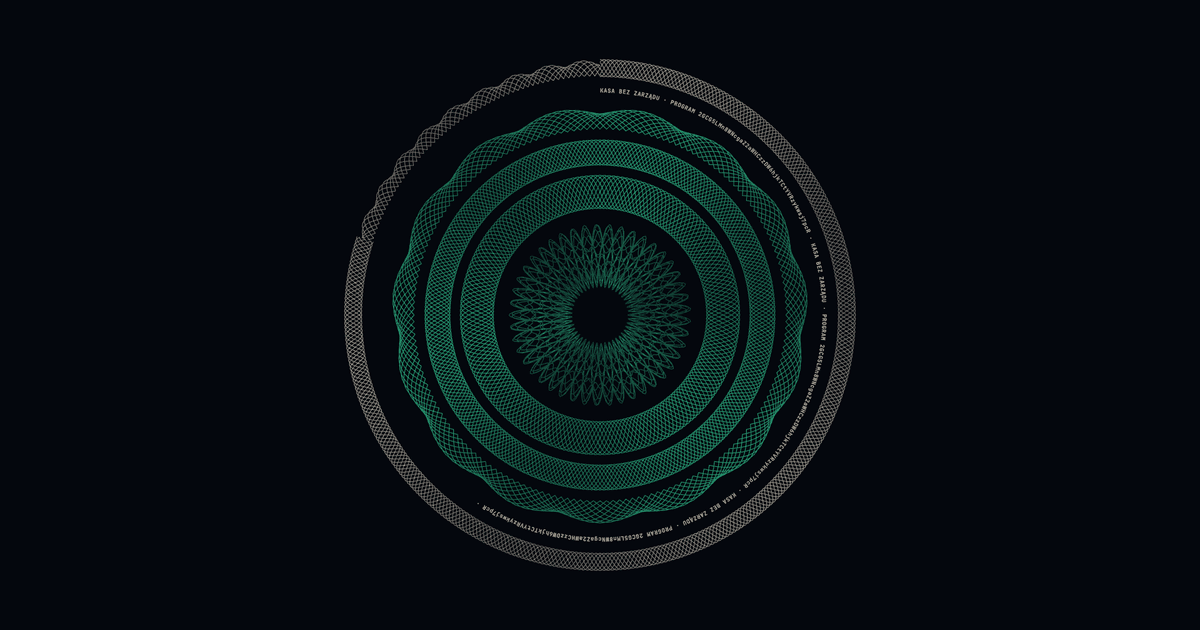
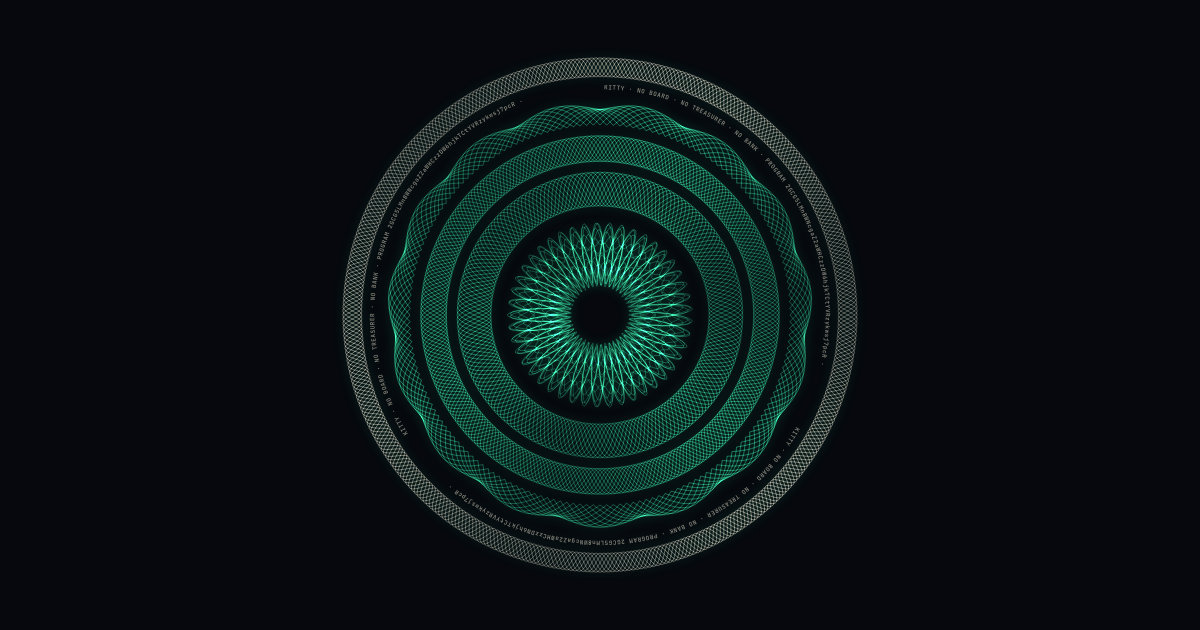
Rename to Kitty everywhere: README, submission, IDL, program docs, OG image
The OG image is re-rendered from the same Rosette component with the new
microprint fitted to the ring. README and the submission describe the
English UI.

Changed region(s): [[0.2775, 0.0905, 0.74, 0.9349]]

diff --git a/packages/contracts/programs/kasa/src/lib.rs b/packages/contracts/programs/kasa/src/lib.rs
@@ -14,7 +14,7 @@ pub use state::*;
 
 declare_id!("2GCG5LMn8WNcgaZ2aWHCzzDW6hjkTCtYVRzykwsj7pcR");
 
-/// Kasa bez zarządu: a workplace-style savings and loan fund (KZP) with no board
+/// Kitty: a workplace-style savings and loan fund (KZP) with no board
 /// and no treasurer. Members' money sits in a vault owned by this program, loans
 /// are paid out only when locked savings cover them in full, and overdue
 /// installments are collected from that collateral by anyone. There is no admin

diff --git a/README.md b/README.md
@@ -1,6 +1,6 @@
-<p align="center"><img src="docs/logo.png" alt="Kasa bez zarządu: rozeta giloszowa z adresem programu na obwodzie" width="220"></p>
+<p align="center"><img src="packages/web/src/app/opengraph-image.png" alt="Kitty: a guilloche rosette, with the program address engraved around its rim"></p>
 
-# Kasa bez zarządu
+# Kitty
 
 **Savings, 0% loans, direct debits and standing orders with no board, no treasurer and no bank.** Members of a group (a team at work, a school, friends, a family) save together and lend each other money at 0%, like a Polish *kasa zapomogowo-pożyczkowa* (KZP). The money sits in an account owned by a Solana program instead of a treasurer's bank account. Loans need no approval: they pay out once members' locked savings cover them 100%. **Installments leave the borrower's wallet by themselves on the due date** under a revocable SPL mandate, pulled by a bot that has no rights at all; if the wallet is empty or the mandate revoked, the installment is collected from collateral after grace. Nobody has to press anything, and nobody's consent is needed.
 
@@ -8,15 +8,12 @@ Built for the **Superteam Poland "Finance Without Intermediaries"** challenge at
 
 | | |
 |---|---|
-| Live app (Solana devnet, Polish UI) | https://web-production-ad49f.up.railway.app |
+| Live app (Solana devnet, English UI) | https://web-production-ad49f.up.railway.app |
 | Program (devnet) | [`2GCG5LMn8WNcgaZ2aWHCzzDW6hjkTCtYVRzykwsj7pcR`](https://explorer.solana.com/address/2GCG5LMn8WNcgaZ2aWHCzzDW6hjkTCtYVRzykwsj7pcR?cluster=devnet) (Anchor 1.1.2, IDL published on-chain) |
 | The bot ("automat"): fee payer, no rights | [`AuEGLSxJpfFqesbtQPDaBvTNqdsRUkZqPx3xiFjFqGqz`](https://explorer.solana.com/address/AuEGLSxJpfFqesbtQPDaBvTNqdsRUkZqPx3xiFjFqGqz?cluster=devnet), runs [`scripts/crank.ts`](packages/web/scripts/crank.ts) on Railway |
 | Test złoty (tPLN) mint | [`3m9ZBm3NqJSRbMdCbnsB5fZWKxpk6tFWeU6PGhzcM8HG`](https://explorer.solana.com/address/3m9ZBm3NqJSRbMdCbnsB5fZWKxpk6tFWeU6PGhzcM8HG?cluster=devnet) (SPL Token, 2 decimals = grosze) |
-| Recorded devnet run (every path, explorer links) | [docs/devnet-e2e.md](docs/devnet-e2e.md) |
-| Pitch deck | [docs/pitch.pdf](docs/pitch.pdf) |
+| Pitch deck (10 slides) | [pitch.pdf](pitch.pdf) |
 | Submission text | [SUBMISSION.md](SUBMISSION.md) |
-
-![Installment 1 is due: the bot pulls it from the borrower's wallet under his mandate](docs/screenshots/07-installment-pulled-by-bot.png)
 
 ## Who it is for
 
@@ -48,7 +45,7 @@ A KZP is mutual credit: members save every month and borrow from the common pot 
 
 Members have to trust them, and when that trust fails nobody can do anything about it: a PKZP treasurer from Jawor county embezzled 61,000 zł of colleagues' savings and lost it on a crypto exchange ([Puls Legnicy, 2024](https://pulslegnicy.pl/kryptowalutowa-afera-w-powiecie-jaworskim-skarbnik-ukradla-61-tys-zl-i-przegrala-je-na-gieldzie/41160/)); a PKZP cashier hid 261,510 zł of withdrawals with falsified cash reports for ten years ([Court of Appeal in Katowice, II AKa 98/15](https://www.saos.org.pl/judgments/175906)). Informal groups have it worse: "the kasa" is simply someone's private bank account. Since 2021 KZPs are regulated by the Act of 11 August 2021 on benefit-loan funds (Dz.U. 2021 poz. 1666), which still assumes a board, an audit committee and payroll deductions.
 
-| | KZP / group kasa today | Kasa bez zarządu |
+| | KZP / group kasa today | Kitty |
 |---|---|---|
 | Who holds the money | The treasurer (KZP bank account or a private one) | A token account owned by the program; only the rules can move it |
 | Who approves loans | The board | Nobody. A loan pays out when locked savings (own + guarantors') cover 100% of it |
@@ -145,19 +142,20 @@ packages/
 │   │                                 loan (request/guarantee/cancel/disburse), repay (repay/collect_overdue),
 │   │                                 autopay (pull_installment, set_contribution, pull_contribution)
 │   └── programs/kasa/tests/kasa.rs   17 LiteSVM tests with the real SPL Token program
-├── web/                              Next.js 16 app (Polish UI)
-│   ├── idl/kasa.json                 IDL from the program build
-│   ├── src/generated/                typed Kit client generated by Codama
-│   ├── src/lib/                      schedule math mirrored from the program, instruction builders, chain reads,
-│   │                                 history.ts (credit history and network totals from program accounts),
-│   │                                 ledger.ts (the kasa's history from transaction logs, vault balance after each event)
-│   ├── src/components/               kasa list + network, kasa view, loan card, standing order, explainer
-│   ├── src/app/api/faucet/route.ts   test-złoty faucet (devnet only, see limitations)
-│   ├── scripts/crank.ts              the bot: pulls due installments/contributions, collects overdue ones
-│   ├── scripts/                      devnet e2e, Playwright UI e2e, burner wallets, Codama codegen
-│   └── tests/                        unit tests: the UI's math matches the program's; history and network totals
-└── video/                            40 s trailer for the submission video (Remotion, see its README)
-docs/                                 devnet run log, screenshots, pitch, demo runbook, video script
+└── web/                              Next.js 16 app (English UI)
+    ├── idl/kasa.json                 IDL from the program build
+    ├── src/generated/                typed Kit client generated by Codama
+    ├── src/lib/                      schedule math mirrored from the program, instruction builders, chain reads,
+    │                                 history.ts (credit history and network totals from program accounts),
+    │                                 ledger.ts (the kasa's history from transaction logs, vault balance after each event),
+    │                                 guilloche.ts (the rosette mark)
+    ├── src/components/               kasa list + network, kasa view, loan card, standing order, explainer
+    ├── src/app/api/faucet/route.ts   test-złoty faucet (devnet only, see limitations)
+    ├── scripts/crank.ts              the bot: pulls due installments/contributions, collects overdue ones
+    ├── scripts/                      devnet e2e, Playwright UI e2e, burner wallets, Codama codegen
+    └── tests/                        unit tests: the UI's math matches the program's; history, ledger, rosette
+pitch.pdf                             10-slide pitch deck
+SUBMISSION.md                         submission text
 ```
 
 There is **no database and no backend that decides anything**. The UI reads every kasa, member and loan with `getProgramAccounts` and sends transactions signed by the user's wallet. Server-side there are two things: the faucet for test złoty and the bot, which only submits transactions the program already allows anyone to submit.
@@ -174,7 +172,7 @@ cp .env.example .env.local      # a dedicated devnet RPC is recommended; FAUCET_
 npm run dev                      # http://localhost:3000
 ```
 
-Use Phantom, Solflare or Backpack on **devnet**. "Dobierz testowe zł" gives a wallet 2000 test złoty (and a little SOL for fees if it has none).
+Use Phantom, Solflare or Backpack on **devnet**. "Get test PLN" gives a wallet 2000 test złoty (and a little SOL for fees if it has none).
 
 ```bash
 # The bot (any devnet keypair with a little SOL; it needs no rights)
@@ -192,17 +190,17 @@ cd packages/web
 npm test
 npm run build
 
-# Devnet end-to-end with throwaway wallets and the bot key (writes docs/devnet-e2e.md)
+# Devnet end-to-end with throwaway wallets and the bot key (prints an explorer link for every step)
 FUNDER_KEYPAIR=~/funded.json FAUCET_KEYPAIR=~/tpln-mint-authority.json CRANK_KEYPAIR=~/crank-keypair.json npx tsx scripts/e2e-devnet.ts
 # Real UI in headless Chromium with an injected Wallet Standard test wallet per member (the bot must be running)
-npx tsx scripts/burners.ts fund && node scripts/ui-e2e.mjs https://web-production-ad49f.up.railway.app .e2e-wallets.json docs/screenshots
+npx tsx scripts/burners.ts fund && node scripts/ui-e2e.mjs https://web-production-ad49f.up.railway.app .e2e-wallets.json screenshots
 ```
 
 ## What was verified
 
 - **20/20 Rust tests**: 3 unit tests (schedule, pro-rata split) and 17 LiteSVM tests with the real SPL Token program. The original nine: loan backed by guarantors paid out and repaid; overdue installments collected first from the borrower then guarantors by a transaction with no signer; partial repayment then default; withdrawing locked savings, exceeding the limit, guaranteeing your own loan, over-pledging, paying out an uncovered loan, collecting early, skipping or swapping guarantor accounts are all rejected; vault invariant after every step and a full bank run. Eight new ones for the direct debit: an installment pulled from the wallet with no borrower signature (guarantors unlocked first); nothing pulled before the due date; never more than is due even with a large allowance; refused without a mandate or after `revoke`, then collateral pays; refused from someone else's account even if it names the PDA as delegate; a short wallet pays what it has and collateral covers the rest; a loan repaid entirely by mandate followed by a bank run to 0; standing contributions once per period, not piled up, refused without a mandate.
-- **14/14 web unit tests**: the UI's schedule, overdue, "due now" and mandate math return the same numbers as the program; credit history and network totals; the kasa history reads only the program's events from transaction logs and follows the vault balance (money in, money out, collections move nothing).
-- **Devnet**: the full story in [docs/devnet-e2e.md](docs/devnet-e2e.md): the bot key pulls Anna's contribution and Bartek's installment 1 with nobody signing, Bartek revokes, the bot is refused and then collects from collateral, rule-breaking attempts are rejected, everyone withdraws everything and the vault ends at 0.
+- **18/18 web unit tests**: the UI's schedule, overdue, "due now" and mandate math return the same numbers as the program; credit history and network totals; the kasa history reads only the program's events from transaction logs and follows the vault balance (money in, money out, collections move nothing); the rosette mark is deterministic and drawn from closed curves.
+- **Devnet**: [`scripts/e2e-devnet.ts`](packages/web/scripts/e2e-devnet.ts) runs the full story with throwaway wallets and prints an explorer link for every step: the bot key pulls Anna's contribution and Bartek's installment 1 with nobody signing, Bartek revokes, the bot is refused and then collects from collateral, rule-breaking attempts are rejected, everyone withdraws everything and the vault ends at 0.
 - **UI**: Playwright drives three real browser sessions (Anna, Bartek, Celina) through create → join → deposit → standing contribution → request → guarantee → pay out with mandate → installment pulled by the bot → revoke → installment collected from collateral by the bot, with the bot running; then checks that the kasa history shows the bot's rows and a balance that matches the vault.
 
 ## Honest limitations

diff --git a/SUBMISSION.md b/SUBMISSION.md
@@ -4,7 +4,7 @@
 
 ## Project title
 
-**Kasa bez zarządu: savings, 0% loans and direct debits with no board, no treasurer and no bank**
+**Kitty: savings, 0% loans and direct debits with no board, no treasurer and no bank**
 
 ## Team name
 
@@ -20,16 +20,14 @@
 |---|---|
 | Code repository (public) | https://github.com/jxroo/kasa-bez-zarzadu |
 | Live demo (Solana devnet) | https://web-production-ad49f.up.railway.app |
-| Video (≤ 3 min) | **TODO**: YouTube/Drive link (script: `docs/VIDEO_SCRIPT.md`) |
-| Pitch deck (PDF, 10 slides) | `docs/pitch.pdf` in the repo (also attached) |
+| Video (≤ 3 min) | **TODO**: YouTube/Drive link |
+| Pitch deck (PDF, 10 slides) | `pitch.pdf` in the repo (also attached) |
 | On-chain program | [`2GCG5LMn8WNcgaZ2aWHCzzDW6hjkTCtYVRzykwsj7pcR`](https://explorer.solana.com/address/2GCG5LMn8WNcgaZ2aWHCzzDW6hjkTCtYVRzykwsj7pcR?cluster=devnet) |
 | The bot (fee payer, no rights) | [`AuEGLSxJpfFqesbtQPDaBvTNqdsRUkZqPx3xiFjFqGqz`](https://explorer.solana.com/address/AuEGLSxJpfFqesbtQPDaBvTNqdsRUkZqPx3xiFjFqGqz?cluster=devnet) |
-| Recorded devnet run with explorer links | https://github.com/jxroo/kasa-bez-zarzadu/blob/HEAD/docs/devnet-e2e.md |
-| Screenshots | https://github.com/jxroo/kasa-bez-zarzadu/tree/HEAD/docs/screenshots |
 
 ## Short description (one paragraph)
 
-Kasa bez zarządu is a *kasa zapomogowo-pożyczkowa* (a workplace or group savings and loan fund) where a Solana program replaces the board, the treasurer, the payroll deduction and the bank services around them. Members' savings sit in a vault owned by the program, not in a treasurer's account. Anyone can borrow up to a multiple of their savings at 0%, with no approval: the loan pays out once locked savings, their own plus pledges from co-members who vouch for them, cover 100% of it. With one standard SPL allowance (revocable at any time) the borrower lets the program pull each installment from their wallet on its due date; a bot with no rights submits it, so nobody clicks anything. If the wallet is empty or the allowance revoked, after grace the installment is collected from collateral, again by anyone. The same mandate runs a standing contribution into savings every period, every loan stays on-chain as a public credit record that guarantors read before vouching, and every movement of a kasa's money is listed in a history read from the chain, with the balance after each step. Because every loan is fully covered, the vault always holds everyone's free savings and anyone can withdraw theirs at any moment. No instruction lets anyone, including the founder, the bot and the authors, change a kasa's rules or move someone else's money.
+Kitty is a *kasa zapomogowo-pożyczkowa* (a workplace or group savings and loan fund) where a Solana program replaces the board, the treasurer, the payroll deduction and the bank services around them. Members' savings sit in a vault owned by the program, not in a treasurer's account. Anyone can borrow up to a multiple of their savings at 0%, with no approval: the loan pays out once locked savings, their own plus pledges from co-members who vouch for them, cover 100% of it. With one standard SPL allowance (revocable at any time) the borrower lets the program pull each installment from their wallet on its due date; a bot with no rights submits it, so nobody clicks anything. If the wallet is empty or the allowance revoked, after grace the installment is collected from collateral, again by anyone. The same mandate runs a standing contribution into savings every period, every loan stays on-chain as a public credit record that guarantors read before vouching, and every movement of a kasa's money is listed in a history read from the chain, with the balance after each step. Because every loan is fully covered, the vault always holds everyone's free savings and anyone can withdraw theirs at any moment. No instruction lets anyone, including the founder, the bot and the authors, change a kasa's rules or move someone else's money.
 
 ## Detailed description
 
@@ -48,7 +46,7 @@ Small groups in Poland that already pool money: workplace KZPs (schools, public 
 7. **Installment 1 falls due and nobody clicks anything.** The bot submits `pull_installment`; the program takes exactly 250 zł from Bartek's wallet, without his signature, and the guarantors get 250 zł unlocked, 3:2. This is the moment the employer's payroll and the bank's direct debit are no longer needed.
 8. **Bartek stops paying: he revokes the allowance.** On installment 2 the bot's pull is refused (`NoMandate`). After grace the bot (or Celina, or anyone) collects 250 zł from Bartek's locked savings; when his collateral runs out, the rest comes from the guarantors pro rata. Nobody had to sue, call or deduct anything.
 9. **Anyone withdraws their free savings at any time**, even during all of this. The vault card shows live that vault = savings − lent.
-10. **"Historia kasy" lists every złoty that came in or went out**, read from the transactions on the chain: who, what, how much, the balance after each step, who sent it ("automat" for the bot) and a link to the explorer. The final balance is checked against the vault. A bank statement nobody can edit.
+10. **"Fund history" lists every złoty that came in or went out**, read from the transactions on the chain: who, what, how much, the balance after each step, who sent it ("bot" for the bot) and a link to the explorer. The final balance is checked against the vault. A bank statement nobody can edit.
 
 ## Design rationale
 
@@ -109,4 +107,4 @@ A PLN stablecoin with a BLIK on-ramp and passkey wallets; guarantees across kasa
 
 ## Technology
 
-Solana devnet · Anchor 1.1.2 program with SPL Token CPIs (transfers signed by the member's PDA as delegate) · 20 Rust tests (LiteSVM with the real token program) · 11 web unit tests · Codama-generated client · @solana/kit 8 with Wallet Standard (Phantom, Solflare, Backpack) · Next.js 16 · Playwright UI tests · Railway hosting (web app + bot). Built with an AI coding assistant (Claude Code); disclosed per HackYeah rules.
+Solana devnet · Anchor 1.1.2 program with SPL Token CPIs (transfers signed by the member's PDA as delegate) · 20 Rust tests (LiteSVM with the real token program) · 18 web unit tests · Codama-generated client · @solana/kit 8 with Wallet Standard (Phantom, Solflare, Backpack) · Next.js 16 · Playwright UI tests · Railway hosting (web app + bot). Built with an AI coding assistant (Claude Code); disclosed per HackYeah rules.
